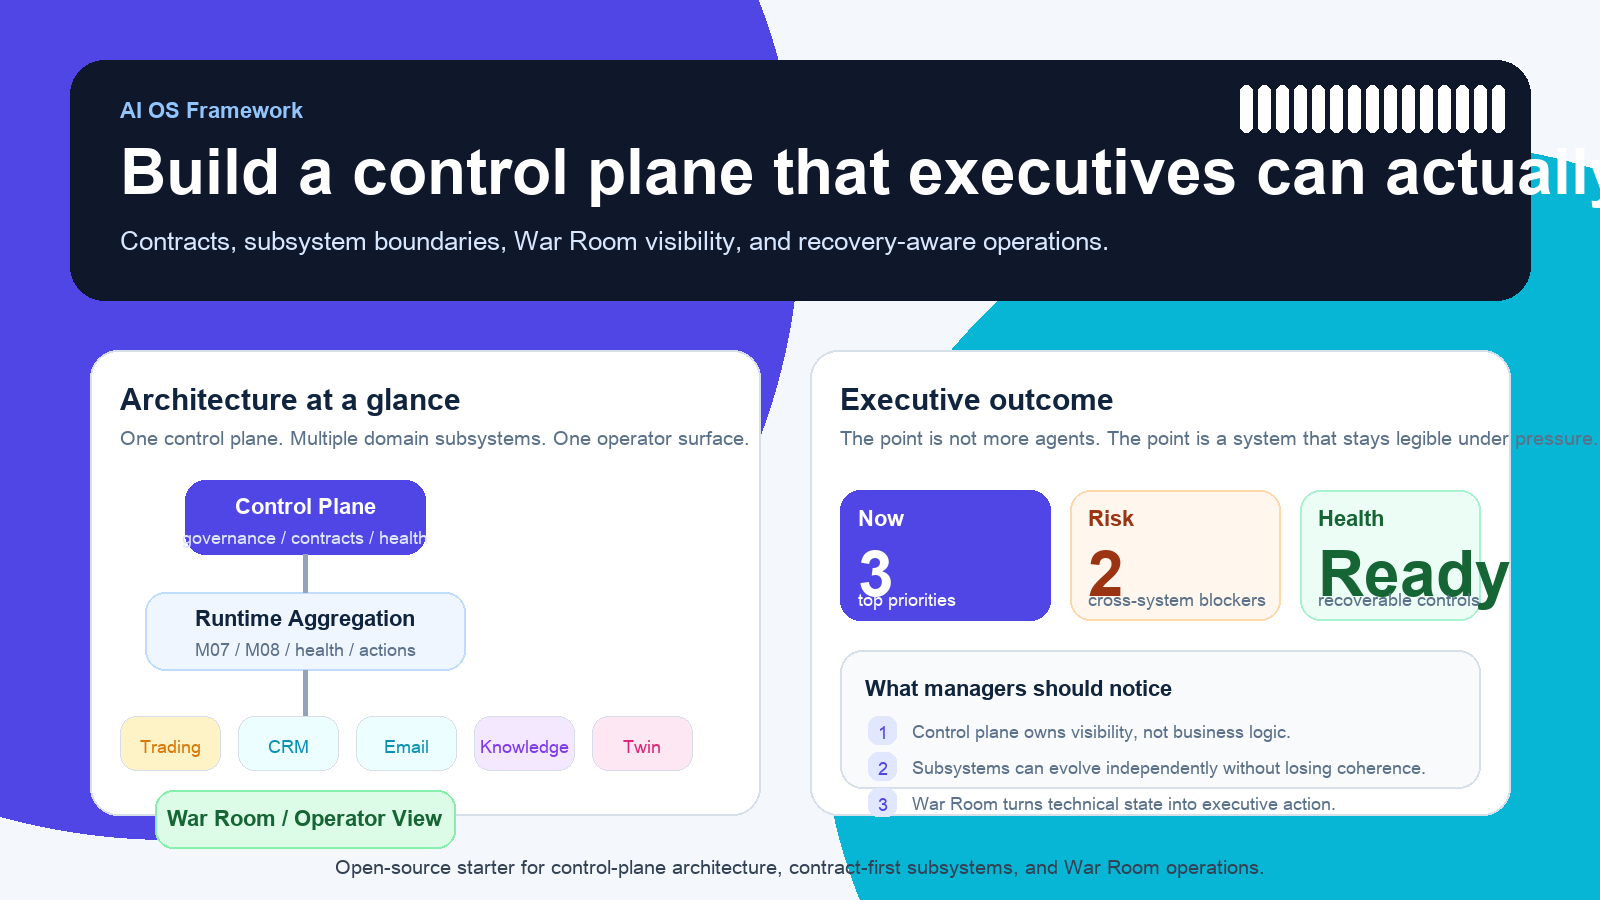
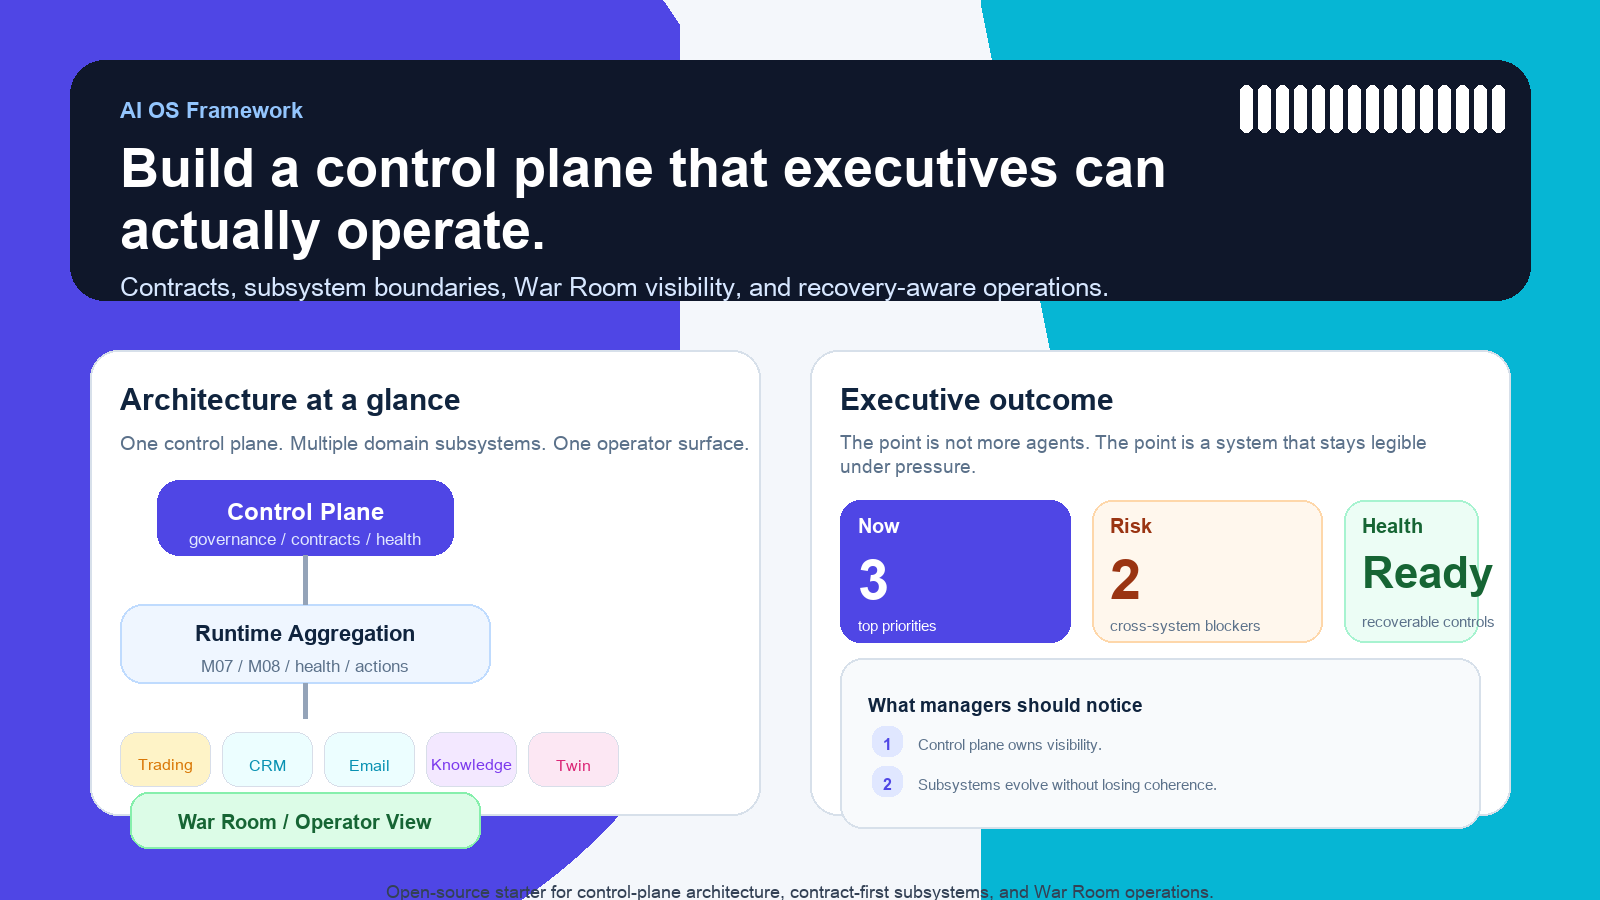
fix: polish hero and switch license to apache-2.0

diff --git a/scripts/generate_demo_hero.py b/scripts/generate_demo_hero.py
@@ -1,0 +1,207 @@
+#!/usr/bin/env python3
+from pathlib import Path
+from PIL import Image, ImageDraw, ImageFont
+
+
+ROOT = Path("/Users/kenny/Desktop/ai-os-framework")
+OUT = ROOT / "docs" / "demo-hero.png"
+
+W, H = 1600, 900
+BG = "#F4F7FB"
+PANEL = "#FFFFFF"
+BORDER = "#D7E0EA"
+SLATE = "#10243E"
+SUB = "#5B718A"
+INDIGO = "#4F46E5"
+CYAN = "#06B6D4"
+AMBER = "#F59E0B"
+GREEN = "#16A34A"
+
+
+def find_font(candidates):
+    for path in candidates:
+        if Path(path).exists():
+            return path
+    raise FileNotFoundError(f"missing font: {candidates}")
+
+
+FONT_PATH = find_font(
+    [
+        "/System/Library/Fonts/Supplemental/Arial Unicode.ttf",
+        "/System/Library/Fonts/Supplemental/Arial.ttf",
+        "/Library/Fonts/Arial.ttf",
+    ]
+)
+BOLD_PATH = find_font(
+    [
+        "/System/Library/Fonts/Supplemental/Arial Bold.ttf",
+        "/Library/Fonts/Arial Bold.ttf",
+        FONT_PATH,
+    ]
+)
+
+
+def font(size, bold=False):
+    return ImageFont.truetype(BOLD_PATH if bold else FONT_PATH, size)
+
+
+def wrap_text(draw, text, fnt, max_width):
+    words = text.split()
+    lines = []
+    current = words[0]
+    for word in words[1:]:
+        probe = f"{current} {word}"
+        if draw.textbbox((0, 0), probe, font=fnt)[2] <= max_width:
+            current = probe
+        else:
+            lines.append(current)
+            current = word
+    lines.append(current)
+    return lines
+
+
+def draw_wrapped(draw, xy, text, fnt, fill, max_width, line_gap=8):
+    x, y = xy
+    lines = wrap_text(draw, text, fnt, max_width)
+    for line in lines:
+        draw.text((x, y), line, font=fnt, fill=fill)
+        box = draw.textbbox((x, y), line, font=fnt)
+        y += (box[3] - box[1]) + line_gap
+    return y
+
+
+def centered_text(draw, box, text, fnt, fill):
+    x1, y1, x2, y2 = box
+    bbox = draw.textbbox((0, 0), text, font=fnt)
+    tw = bbox[2] - bbox[0]
+    th = bbox[3] - bbox[1]
+    draw.text((x1 + (x2 - x1 - tw) / 2, y1 + (y2 - y1 - th) / 2), text, font=fnt, fill=fill)
+
+
+img = Image.new("RGB", (W, H), BG)
+draw = ImageDraw.Draw(img)
+
+# Background accents
+draw.ellipse((-260, -220, 780, 980), fill=INDIGO)
+draw.polygon([(980, 0), (1600, 0), (1600, 900), (780, 900), (1080, 500)], fill=CYAN)
+draw.rectangle((680, 0, 980, 900), fill=BG)
+
+# Hero band
+hero = (70, 60, W - 70, 300)
+draw.rounded_rectangle(hero, radius=34, fill="#0F172A")
+for x in range(0, 260, 18):
+    draw.rounded_rectangle((W - 360 + x, 85, W - 348 + x, 132), radius=6, fill=(255, 255, 255))
+
+draw.text((120, 98), "AI OS Framework", font=font(22, bold=True), fill="#93C5FD")
+title_font = font(54, bold=True)
+subtitle_font = font(26)
+title_lines = wrap_text(
+    draw,
+    "Build a control plane that executives can actually operate.",
+    title_font,
+    1120,
+)
+title_y = 138
+for line in title_lines:
+    draw.text((120, title_y), line, font=title_font, fill="white")
+    title_y += 62
+draw.text(
+    (120, title_y + 6),
+    "Contracts, subsystem boundaries, War Room visibility, and recovery-aware operations.",
+    font=subtitle_font,
+    fill="#D7E7FF",
+)
+
+# Left card
+left = (90, 350, 760, 815)
+draw.rounded_rectangle(left, radius=28, fill=PANEL, outline=BORDER, width=2)
+draw.text((120, 382), "Architecture at a glance", font=font(30, bold=True), fill=SLATE)
+draw.text(
+    (120, 428),
+    "One control plane. Multiple domain subsystems. One operator surface.",
+    font=font(20),
+    fill=SUB,
+)
+
+# Architecture nodes
+control = (157, 480, 453, 555)
+draw.rounded_rectangle(control, radius=22, fill=INDIGO)
+centered_text(draw, (157, 494, 453, 520), "Control Plane", font(24, bold=True), "white")
+centered_text(draw, (157, 522, 453, 545), "governance / contracts / health", font(17), "#E0E7FF")
+
+runtime = (120, 604, 490, 683)
+draw.rounded_rectangle(runtime, radius=22, fill="#EFF6FF", outline="#BFDBFE", width=2)
+centered_text(draw, (120, 618, 490, 645), "Runtime Aggregation", font(22, bold=True), SLATE)
+centered_text(draw, (120, 648, 490, 670), "M07 / M08 / health / actions", font(17), SUB)
+
+draw.line((305, 555, 305, 604), fill="#94A3B8", width=5)
+draw.line((305, 683, 305, 718), fill="#94A3B8", width=5)
+
+sub_boxes = [
+    ("Trading", "#FEF3C7", "#D97706"),
+    ("CRM", "#ECFEFF", "#0891B2"),
+    ("Email", "#ECFEFF", "#0891B2"),
+    ("Knowledge", "#F3E8FF", "#7C3AED"),
+    ("Twin", "#FCE7F3", "#DB2777"),
+]
+sx = 120
+for label, fill, fg in sub_boxes:
+    box = (sx, 732, sx + 90, 786)
+    draw.rounded_rectangle(box, radius=16, fill=fill, outline="#D8DEE9")
+    centered_text(draw, box, label, font(16, bold=False), fg)
+    sx += 102
+
+war_room = (130, 792, 480, 848)
+draw.rounded_rectangle(war_room, radius=18, fill="#DCFCE7", outline="#86EFAC", width=2)
+centered_text(draw, war_room, "War Room / Operator View", font(20, bold=True), "#166534")
+
+# Right card
+right = (810, 350, 1510, 815)
+draw.rounded_rectangle(right, radius=28, fill=PANEL, outline=BORDER, width=2)
+draw.text((840, 382), "Executive outcome", font=font(30, bold=True), fill=SLATE)
+draw_wrapped(
+    draw,
+    (840, 428),
+    "The point is not more agents. The point is a system that stays legible under pressure.",
+    font(19),
+    SUB,
+    610,
+    line_gap=6,
+)
+
+metric_specs = [
+    ((840, 500, 1070, 642), INDIGO, None, "white", "Now", "3", "top priorities"),
+    ((1092, 500, 1322, 642), "#FFF7ED", "#FED7AA", "#9A3412", "Risk", "2", "cross-system blockers"),
+    ((1344, 500, 1478, 642), "#ECFDF5", "#A7F3D0", "#166534", "Health", "Ready", "recoverable controls"),
+]
+for box, fill, outline, text_fill, label, big, small in metric_specs:
+    draw.rounded_rectangle(box, radius=20, fill=fill, outline=outline or fill, width=2 if outline else 0)
+    x1, y1, x2, y2 = box
+    draw.text((x1 + 18, y1 + 14), label, font=font(20, bold=True), fill=text_fill)
+    big_font = font(56, bold=True) if len(big) <= 3 else font(44, bold=True)
+    draw.text((x1 + 18, y1 + 48), big, font=big_font, fill=text_fill)
+    small_y = y2 - 28 if len(big) <= 3 else y2 - 32
+    draw.text((x1 + 18, small_y), small, font=font(15), fill=text_fill if fill == INDIGO else SUB)
+
+notice = (840, 658, 1480, 828)
+draw.rounded_rectangle(notice, radius=22, fill="#F8FAFC", outline=BORDER, width=2)
+draw.text((868, 694), "What managers should notice", font=font(19, bold=True), fill=SLATE)
+items = [
+    "Control plane owns visibility.",
+    "Subsystems evolve without losing coherence.",
+]
+iy = 726
+for idx, item in enumerate(items, start=1):
+    bubble = (872, iy, 902, iy + 30)
+    draw.rounded_rectangle(bubble, radius=12, fill="#E0E7FF")
+    centered_text(draw, bubble, str(idx), font(16, bold=True), INDIGO)
+    draw.text((918, iy + 7), item, font=font(15), fill=SUB)
+    iy += 40
+
+footer = "Open-source starter for control-plane architecture, contract-first subsystems, and War Room operations."
+fw = draw.textbbox((0, 0), footer, font=font(18))[2]
+draw.text(((W - fw) / 2, 878), footer, font=font(18), fill="#334155")
+
+OUT.parent.mkdir(parents=True, exist_ok=True)
+img.save(OUT)
+print(OUT)

diff --git a/README.md b/README.md
@@ -200,7 +200,7 @@ Use this framework to:
 
 ## License
 
-MIT
+Apache-2.0
 
 ## Contributing
 
